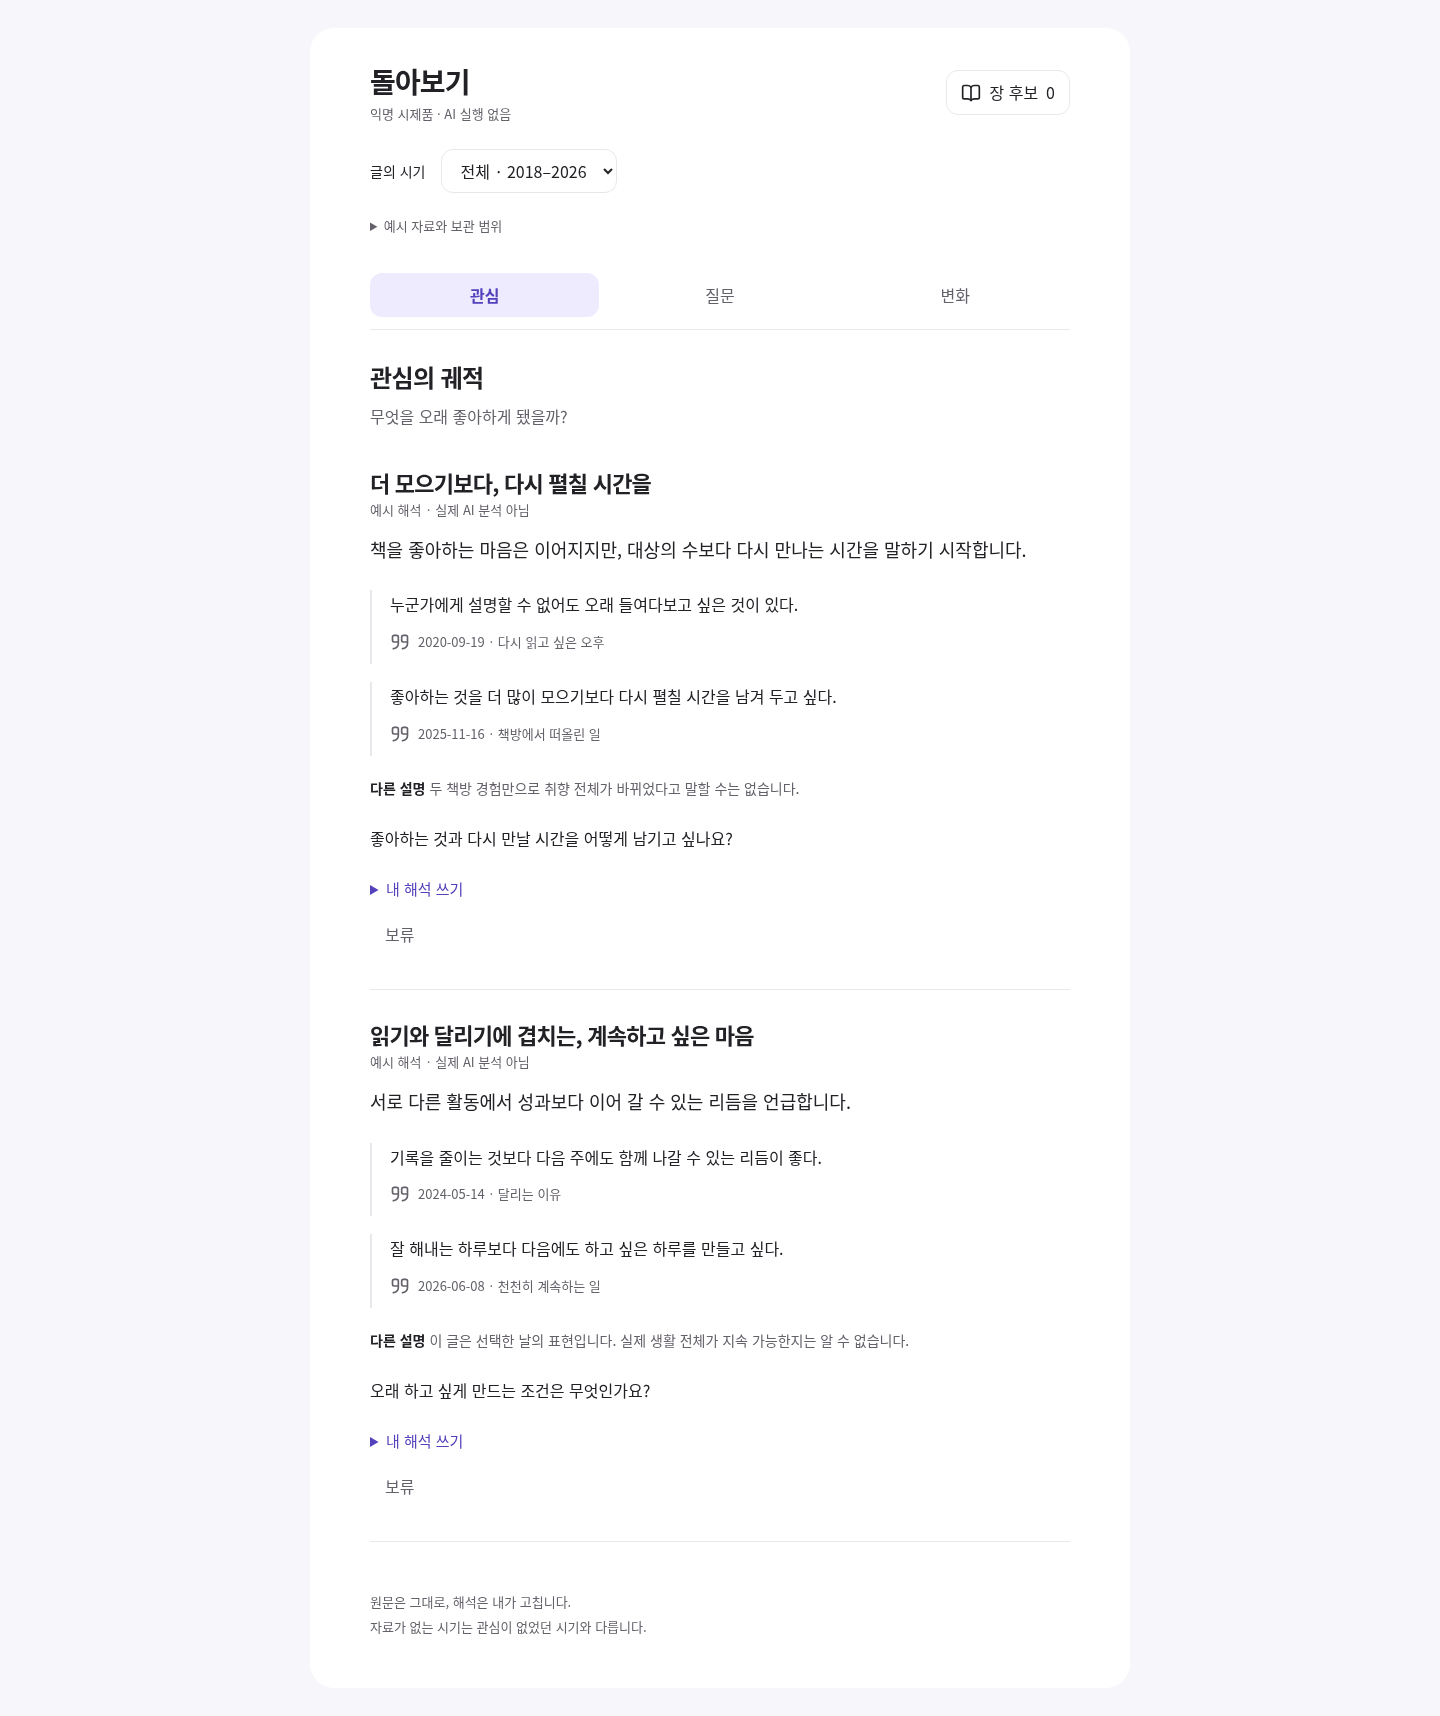
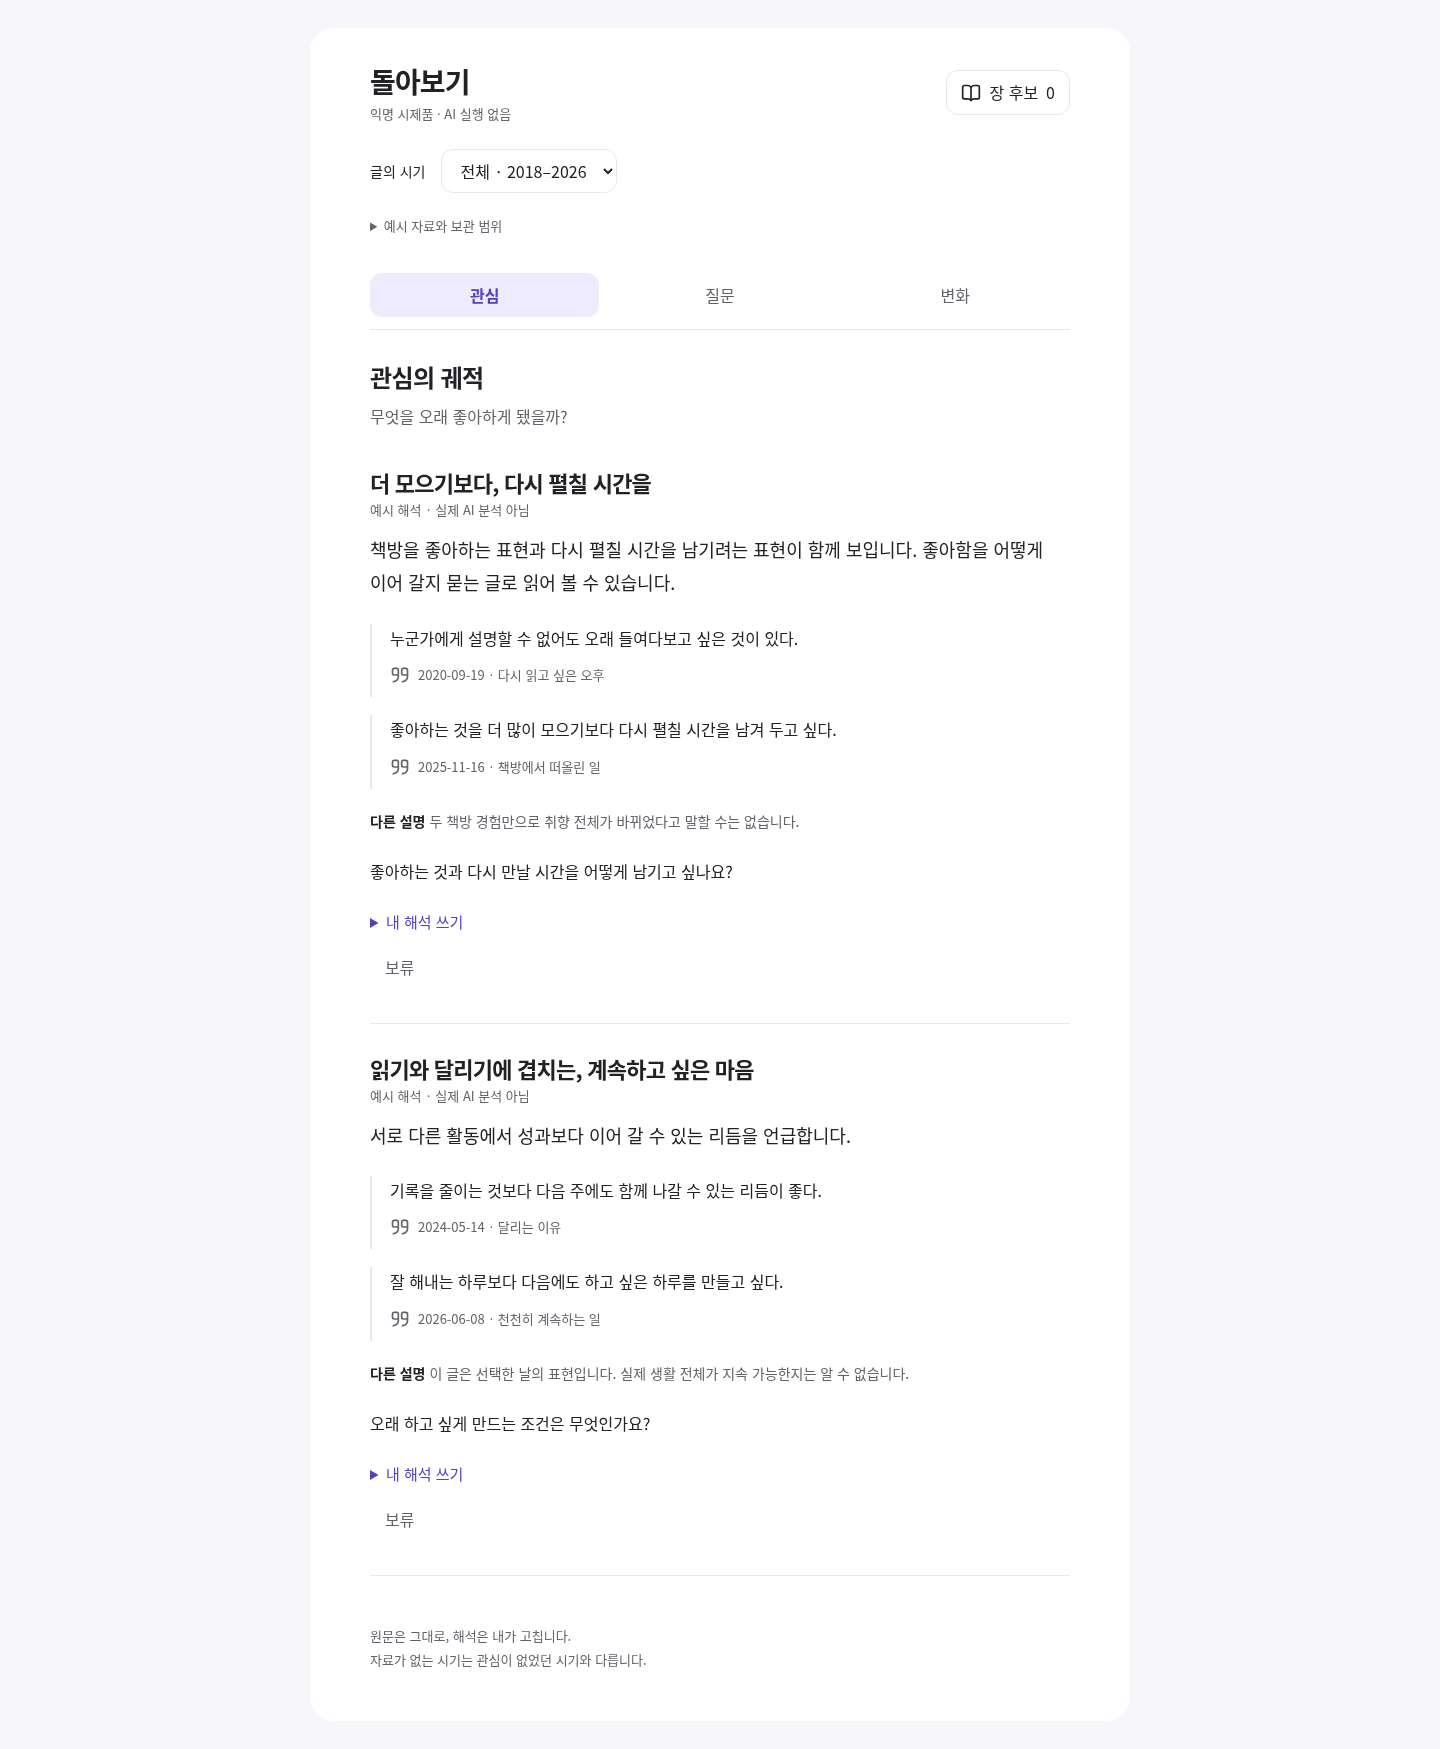
Refine interpretation limits and restore editor focus

diff --git a/docs/prototypes/analysis-lenses/fixtures.js b/docs/prototypes/analysis-lenses/fixtures.js
@@ -25,7 +25,7 @@
     {id:'changes',label:'변화',title:'생각이 달라진 지점',question:'같은 일, 달라진 기준이 있을까?',description:'이전과 이후의 표현을 비교하고 반대 근거도 함께 읽습니다.'}
   ];
   const findings=[
-    {id:'interest-return',lens:'interests',title:'더 모으기보다, 다시 펼칠 시간을',summary:'책을 좋아하는 마음은 이어지지만, 대상의 수보다 다시 만나는 시간을 말하기 시작합니다.',alternative:'두 책방 경험만으로 취향 전체가 바뀌었다고 말할 수는 없습니다.',question:'좋아하는 것과 다시 만날 시간을 어떻게 남기고 싶나요?',refs:[quote('v03','누군가에게 설명할 수 없어도 오래 들여다보고 싶은 것이 있다.'),quote('v09','좋아하는 것을 더 많이 모으기보다 다시 펼칠 시간을 남겨 두고 싶다.')]},
+    {id:'interest-return',lens:'interests',title:'더 모으기보다, 다시 펼칠 시간을',summary:'책방을 좋아하는 표현과 다시 펼칠 시간을 남기려는 표현이 함께 보입니다. 좋아함을 어떻게 이어 갈지 묻는 글로 읽어 볼 수 있습니다.',alternative:'두 책방 경험만으로 취향 전체가 바뀌었다고 말할 수는 없습니다.',question:'좋아하는 것과 다시 만날 시간을 어떻게 남기고 싶나요?',refs:[quote('v03','누군가에게 설명할 수 없어도 오래 들여다보고 싶은 것이 있다.'),quote('v09','좋아하는 것을 더 많이 모으기보다 다시 펼칠 시간을 남겨 두고 싶다.')]},
     {id:'interest-rhythm',lens:'interests',title:'읽기와 달리기에 겹치는, 계속하고 싶은 마음',summary:'서로 다른 활동에서 성과보다 이어 갈 수 있는 리듬을 언급합니다.',alternative:'이 글은 선택한 날의 표현입니다. 실제 생활 전체가 지속 가능한지는 알 수 없습니다.',question:'오래 하고 싶게 만드는 조건은 무엇인가요?',refs:[quote('v07','기록을 줄이는 것보다 다음 주에도 함께 나갈 수 있는 리듬이 좋다.'),quote('v10','잘 해내는 하루보다 다음에도 하고 싶은 하루를 만들고 싶다.')]},
     {id:'question-choice',lens:'questions',title:'잘하는 일과 좋아하는 일, 꼭 골라야 할까',summary:'반복해서 등장한 선택의 질문이, 둘 중 하나만 골라야 하는지 묻는 질문으로 이어집니다.',alternative:'표현이 닮았어도 당시의 직장과 상황은 다를 수 있습니다. 같은 고민이라는 연결은 제안입니다.',question:'지금은 두 가지를 어떻게 함께 가져가고 싶나요?',refs:[quote('v02','잘하는 일을 골라야 할까, 오래 궁금한 일을 골라야 할까?'),quote('v06','나는 잘하는 것과 오래 좋아하는 것 중 무엇을 택하고 싶은가?'),quote('v15','잘하는 일과 좋아하는 일이 꼭 다른 것은 아닐지도 모른다.')]},
     {id:'question-proof',lens:'questions',title:'좋아함에도 설명이 필요할까',summary:'좋아하는 일과 쉬는 시간을 다른 사람에게 설명해야 하는지 묻는 장면을 나란히 읽을 수 있습니다.',alternative:'책 취향과 휴식은 다른 주제입니다. 공통 질문으로 묶지 않는 편이 더 정확할 수도 있습니다.',question:'설명하지 않아도 남겨 두고 싶은 것은 무엇인가요?',refs:[quote('v03','그것을 좋아한다고 말해도 될까?'),quote('v05','쉬는 시간까지 성과로 설명하고 싶지는 않다.')]},

diff --git a/docs/prototypes/analysis-lenses/app.js b/docs/prototypes/analysis-lenses/app.js
@@ -34,7 +34,7 @@
     for(const original of available){
       const f=finding(original),article=node('article',undefined,'finding');article.dataset.finding=f.id;
       article.append(node('h3',f.title));
-      if(state.excluded.has(f.id)){article.append(node('p','보류한 해석 · 입력은 유지됩니다.','meta'),button('다시 살펴보기',()=>{state.excluded.delete(f.id);render();document.querySelector('[data-finding="'+f.id+'"] h3').scrollIntoView({block:'center'});}));panel.append(article);continue;}
+      if(state.excluded.has(f.id)){article.append(node('p','보류한 해석 · 입력은 유지됩니다.','meta'),button('다시 살펴보기',()=>{state.excluded.delete(f.id);render();const restored=document.querySelector('[data-finding="'+f.id+'"]');const focus=restored.querySelector(state.drafts.has(f.id)?'textarea':'summary');focus.focus();focus.scrollIntoView({block:'center'});}));panel.append(article);continue;}
       article.append(node('p','예시 해석 · 실제 AI 분석 아님','meta'),node('p',f.summary,'interpretation'));
       const valid=M.validateFinding(f,F.sources,current.versionIds).valid;
       if(valid)for(const ref of f.refs){const s=F.sources.find(s=>s.id===ref.versionId),e=node('div',undefined,'evidence');if(ref.role==='counter')e.append(node('p','함께 봐야 할 다른 방향의 근거','counter'));e.append(node('blockquote',ref.text));const b=button((s.date||'날짜 미확인')+' · '+s.title,()=>openSource(ref),'source-link');b.prepend(icon('quote'));b.setAttribute('aria-label',s.title+' 원문 확인');e.append(b);article.append(e);}

diff --git a/docs/design-review/analysis-lenses.md b/docs/design-review/analysis-lenses.md
@@ -25,7 +25,7 @@
 - [브라우저 수치·검사 기록](evidence/analysis-lenses/report.json)
 - [받은 JSON](evidence/analysis-lenses/candidate.json) · [받은 Markdown](evidence/analysis-lenses/candidate.md) — 익명 테스트 문자열 포함
 
-실제 스크린샷을 검토해 제목 위 장식 문구와 중복 소개 문장을 줄였다. 1440·820·390px에서 관점 3개, 총 9개 본문 상태를 확인했다. 기본 본문 폭은 700px이고 작은 화면은 좌우 20px이다. 한글 글꼴은 기존 스택을 사용한다. 화면의 근거는 짧은 익명 문장이므로 실제 수백 건 분석 화면의 밀도나 장문 성능을 입증한 것은 아니다.
+실제 스크린샷을 검토해 제목 위 장식 문구와 중복 소개 문장을 줄였다. 의미 검토에서는 두 글만으로 관심의 전환 시점을 단정하던 문장을 두 표현을 함께 읽는 제안으로 고쳤다. 보류 후 다시 열 때 입력란으로 키보드 초점이 돌아오도록 보완했다. 1440·820·390px에서 관점 3개, 총 9개 본문 상태를 확인했다. 기본 본문 폭은 700px이고 작은 화면은 좌우 20px이다. 한글 글꼴은 기존 스택을 사용한다. 화면의 근거는 짧은 익명 문장이므로 실제 수백 건 분석 화면의 밀도나 장문 성능을 입증한 것은 아니다.
 
 ## 검증 결과
 
